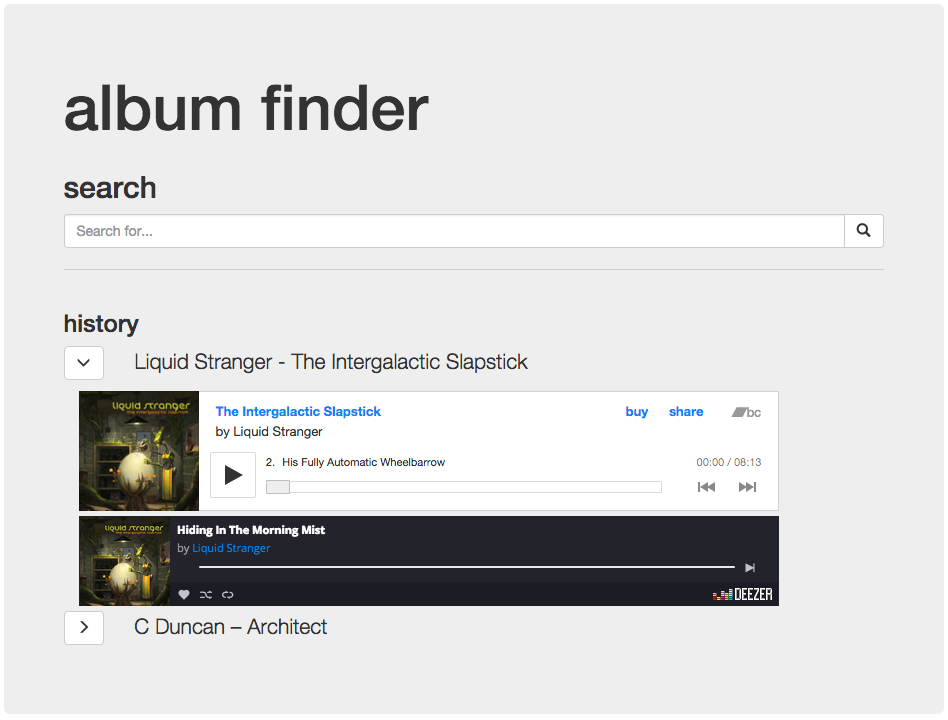
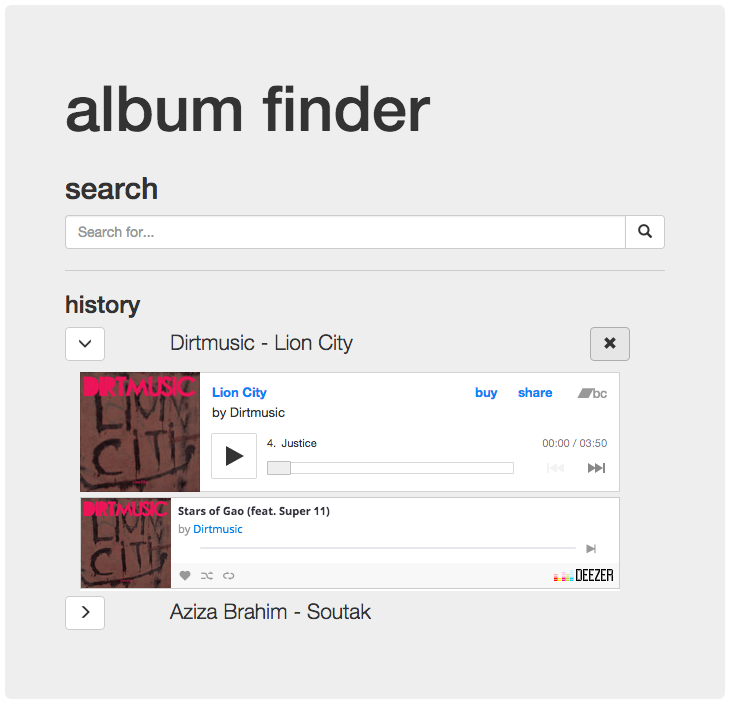
add latest screenshots

diff --git a/assets/css/application.css b/assets/css/application.css
@@ -20,5 +20,5 @@ iframe.bandcamp {
 iframe.deezer {
     border: 0;
     width: 100%;
-    height: 92px;
+    height: 94px;
 }

diff --git a/README.md b/README.md
@@ -27,22 +27,18 @@ MuSAPI searches multiple sources for album previews and returns them as JSON. al
 
 ## Screenshots of current version
 
+User visits site for first time:
+
+![User visits site for first time](https://github.com/sonicblend/album-finder/blob/master/screenshots/album_finder_welcome.png)
+
 User searches for a couple albums:
 
-![User searches for an item](https://github.com/sonicblend/album-finder/blob/master/screenshots/album_finder_search.png)
+![User searches for a couple albums](https://github.com/sonicblend/album-finder/blob/master/screenshots/album_finder_history_closed.png)
 
-User revisits site with search history preserved:
+User opens query result to view previews, when found - note the delete icon that appears when hovering over:
 
-![User revists site with search history visible](https://github.com/sonicblend/album-finder/blob/master/screenshots/album_finder_history_closed.png)
+![User opens query result to view previews, when found](https://github.com/sonicblend/album-finder/blob/master/screenshots/album_finder_history_open.png)
 
-User hovers over album to see the delete button:
+User deletes a result:
 
-![User hovers over item to display delete button](https://github.com/sonicblend/album-finder/blob/master/screenshots/album_finder_delete_hover.png)
-
-User clears album from history:
-
-![User deletes item from history](https://github.com/sonicblend/album-finder/blob/master/screenshots/album_finder_deleted.png)
-
-User clears all history:
-
-![User deletes all items from history](https://github.com/sonicblend/album-finder/blob/master/screenshots/album_finder_no_history.png)
+![User deletes the query](https://github.com/sonicblend/album-finder/blob/master/screenshots/album_finder_deleted.png)
